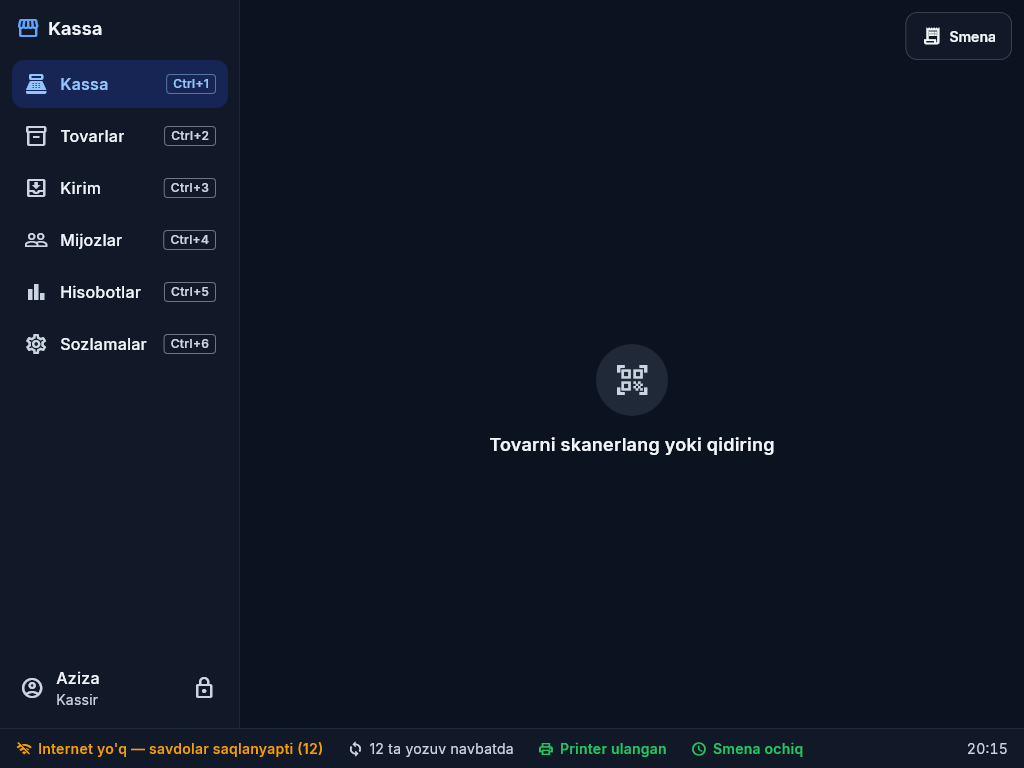
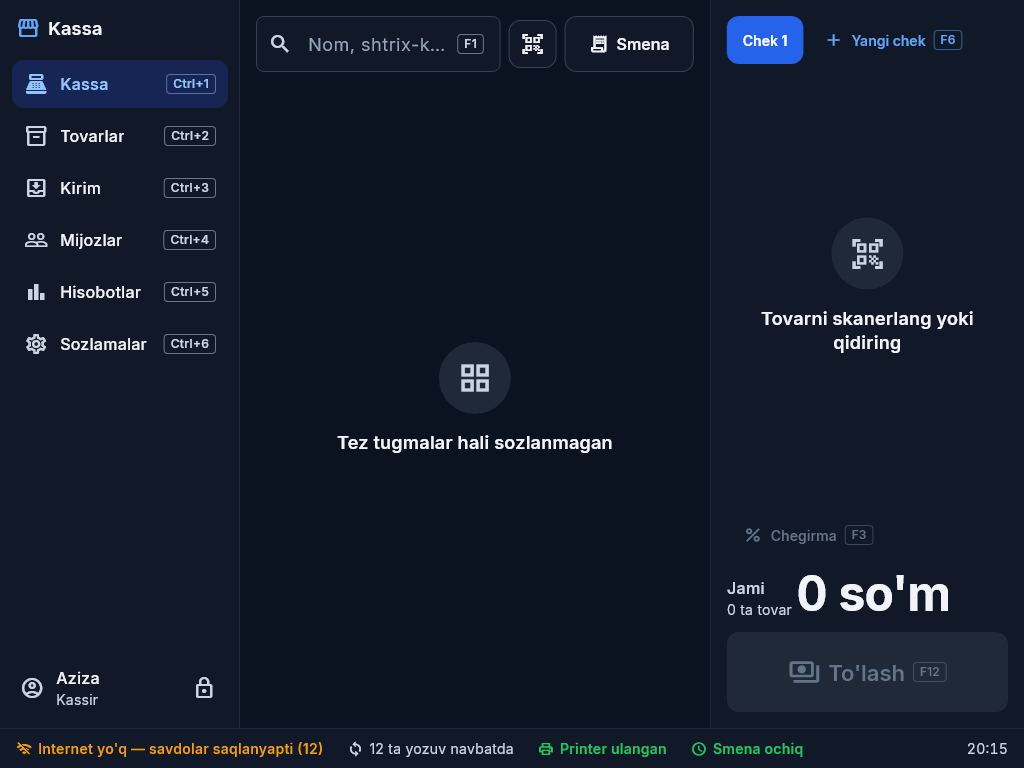
wip: T-042 screenshots and spec notes

diff --git a/docs/specs/pos-screen.md b/docs/specs/pos-screen.md
@@ -34,3 +34,13 @@
 ## Klaviatura (Windows)
 F1 qidiruv · F2 miqdor · F3 chegirma · F4 mijoz · F6 kechiktirish/yangi chek · F8 qaytarish · F9 pul kiritish/chiqarish · F12 to'lash · Esc bekor/yopish · Enter tasdiq · Delete qatorni o'chirish · ↑/↓ savat qatorlari.
 Tezkor tugmalar ekranda kichik yorliq sifatida ko'rinadi (desktopda).
+
+## Kassada amalga oshirilishi (T-042)
+- **Katalog indeksi** — `data/catalog/product_catalog.dart`: tovarlar xotirada (`productCatalogProvider`, pull'dan keyin qayta quriladi). Shtrix-kod (har qanday kodi), tarozi kodi → PLU + vazn/narx, qidiruv (nom — lotin/kirill farqsiz `SearchKey.of`, so'zlar istalgan tartibda; shtrix-kod boshi ≥ 3 raqam; aniq PLU). Tartib: aniq kod → nom boshi → so'z boshi → ichida. 10 000 tovarda har belgi < 50 ms (test).
+- **Qidiruv kaliti** — `core/text/search_key.dart`: kichik harf, kirill → o'zbek lotin (`ў`→`o`, `ғ`→`g`, `ч`→`ch`, `х`/`ҳ`→`x`), tutuq belgilari olib tashlanadi, `h` = `x`. Pull `products.search_key` ga ham shu yoziladi.
+- **Savat** — `features/pos/cart/`: `Cart`/`CartLine`/`Discount` (pul — tiyin, miqdor — `qty_milli`), `CartController` (dona tovar qayta qo'shilsa +1, vaznli/tarozi — yangi qator; o'chirish + undo; qator va chek chegirmasi; 5 ta chek). Har o'zgarish navbat bilan `cart_drafts` ga yoziladi (v3: `discount_json`) — ilova o'ldirilsa ham tiklanadi.
+- **Chegirma huquqi** — `discount_policy.dart`: kassir lokal sozlama `discount_cashier_max_bp` gacha (standart 5%, Q-005), undan katta — menejer/ega PIN (`features/common/manager_approval.dart`), tasdiqlagan `Discount.approvedBy` → savdoning `approved_by`.
+- **Ekran** — `features/pos/pos_screen.dart`: kontent ≥ 720 px — ikki panel (chap 60%: qidiruv + natijalar yoki tez tugmalar kategoriya tablari bilan; o'ng 40%: chek tablari, qatorlar, chegirma, JAMI, To'lash); tor ekran — bir ustun, tez tugmalar varaqda, pastda yopishqoq JAMI + To'lash, qatorni chapga surib o'chirish. Planshetdagi tor savatda qator boshqaruvi alohida qatorga tushadi.
+- **Klaviatura** — `HardwareKeyboard` ishlovchisi, faqat fokus kassa ekranida bo'lsa (oyna ochiq — yo'q): F1 qidiruv, F2 miqdor, F3 chegirma, F6 yangi chek, F12 to'lash, Delete qatorni o'chirish (qidiruvda matn bo'lsa — matnni), ↑/↓ natijalar yoki savat qatorlari, Enter — tanlangan natija, Esc — qidiruvni tozalash/tanlovni olib tashlash. F4 mijoz — T-043, F8 — T-045, F9 — T-046.
+- **Skaner** — `ScanListener` (oyna ochiq paytda `enabled: false` — raqamlar oynaga tushadi). Topildi → savatga, yashil chaqnash + signal; topilmadi — "Bu kod bazada yo'q"; nofaol/narxi 0 — ogohlantirish; nazorat raqami xato — "Kod noto'g'ri o'qildi". Fokussiz yozilgan matn qidiruvga tushadi. "Tovar qo'shish" tez formasi — tovar kartasi bilan (keyin).
+- **To'lash** — T-043 gacha xabar; savdo to'xtagan bo'lsa (`salesBlockProvider`) tugma o'chiq va savat ustida sabab banneri.
